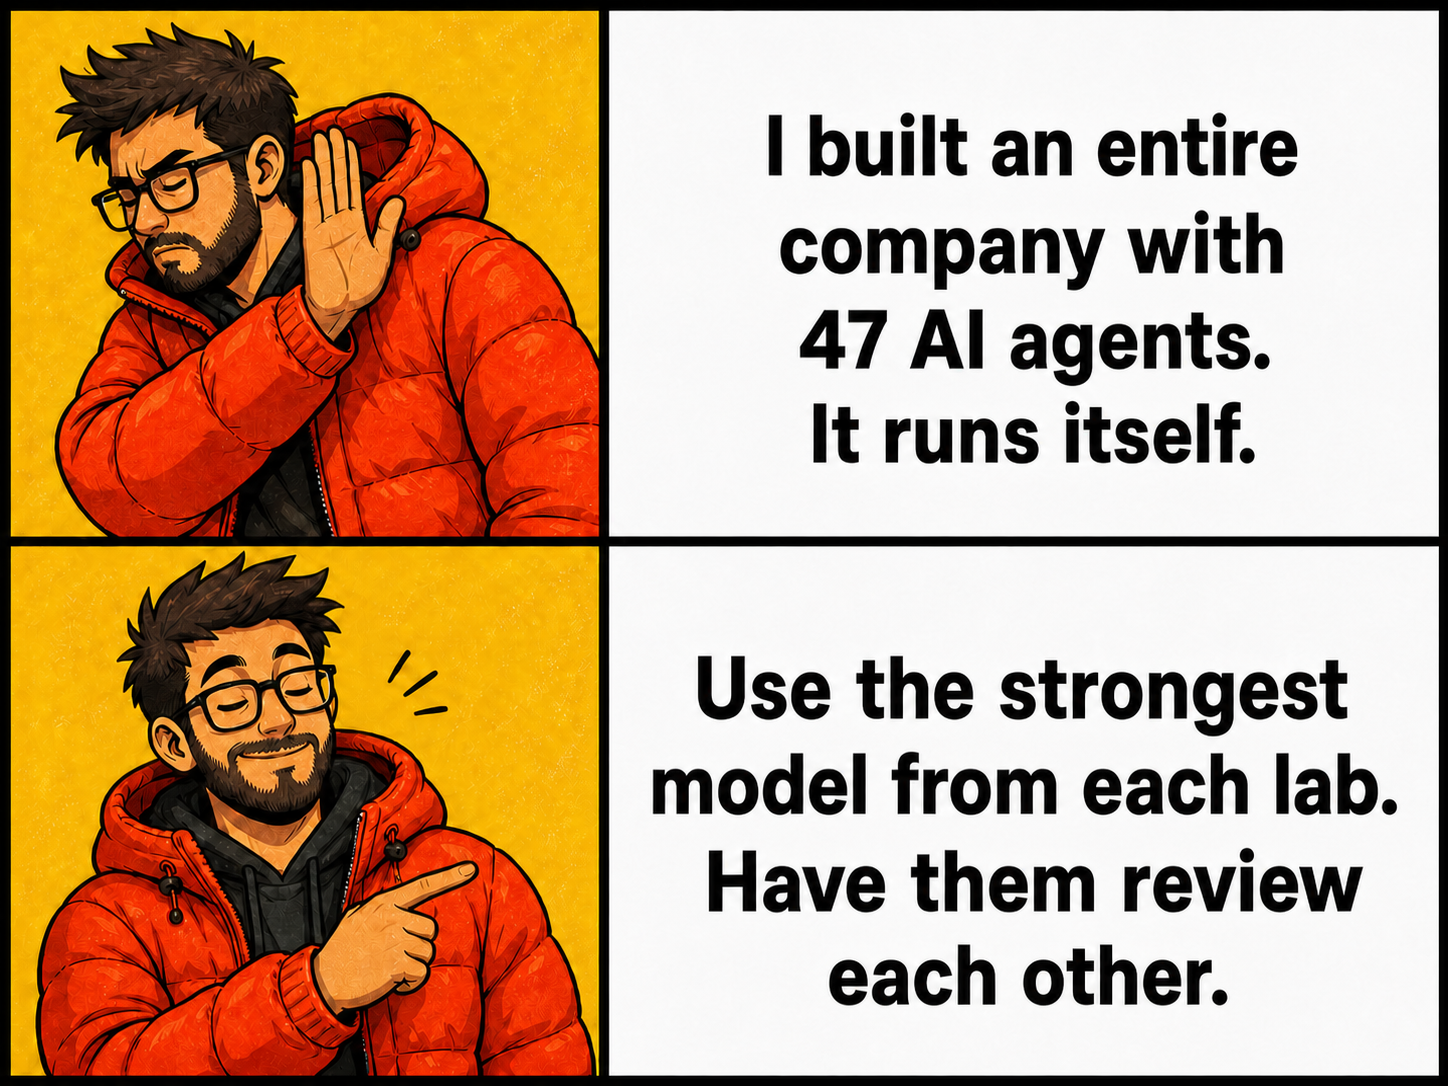
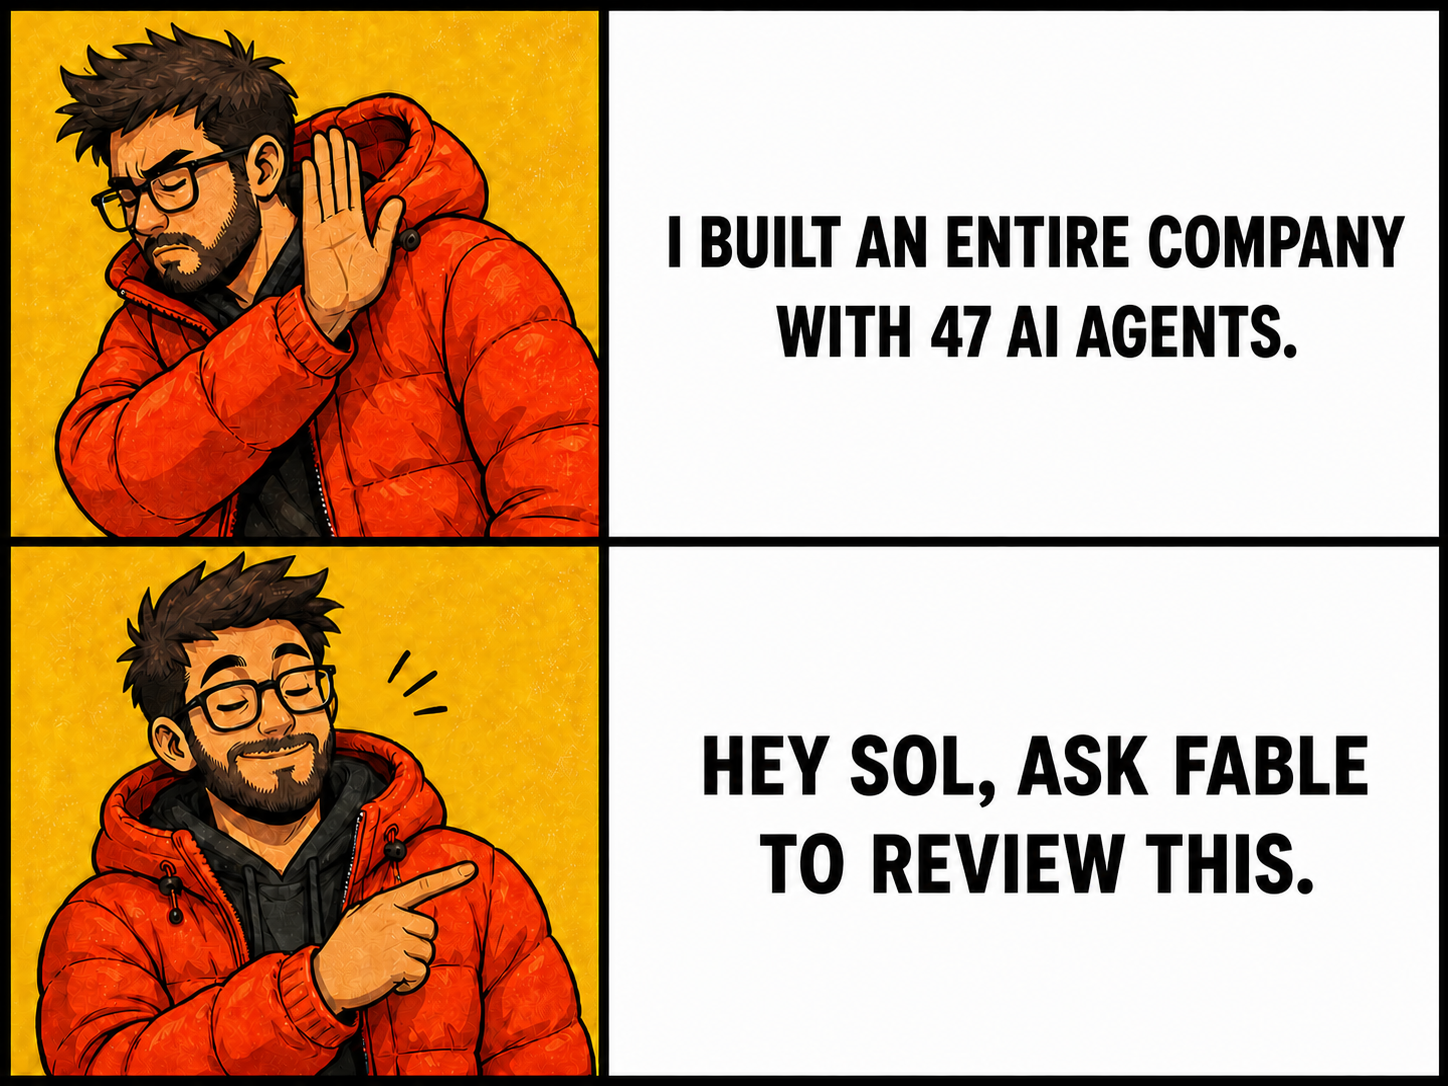
Refine delegation meme copy

diff --git a/README.md b/README.md
@@ -16,7 +16,7 @@ harness, and call the other side when it has something useful to add.
 
 `dlgt` fills that one gap. It lets Codex use Claude and Claude use Codex.
 
-![Reject the agent fleet. Let Sol and Fable review each other.](assets/delegate-to-the-competition.png)
+![I built an entire company with 47 AI agents. Hey Sol, ask Fable to review this.](assets/delegate-to-the-competition.png)
 
 ## Quick Start
 